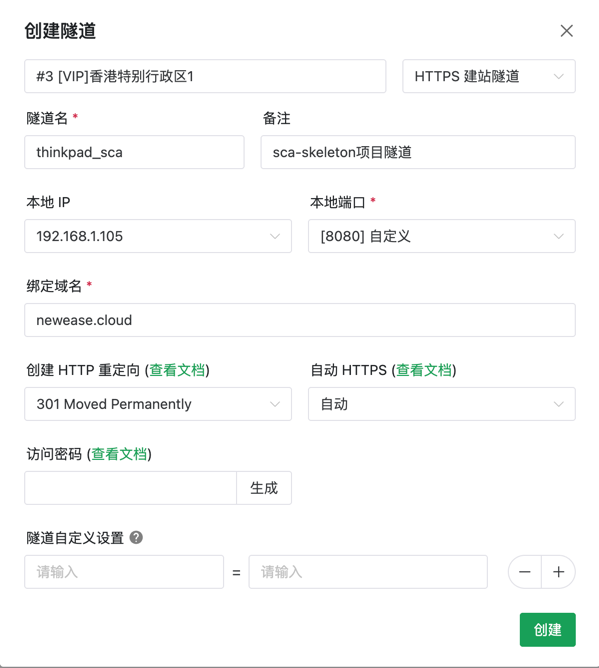
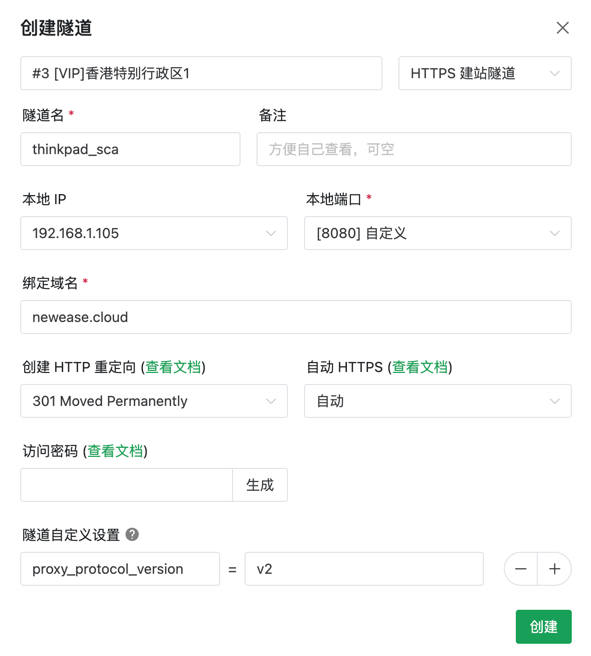
提交修改

diff --git a/deploy/SakuraFrp/安装步骤.md b/deploy/SakuraFrp/安装步骤.md
@@ -163,3 +163,72 @@ journalctl -u frpc@v7bx44tsklorvz141rmou651sd82csuu:28471369 -f
 # 前台调试（先停服务）
 frpc -f v7bx44tsklorvz141rmou651sd82csuu:28471369
 ```
+
+## 六、获取访问者真实 IP（Proxy Protocol v2）
+
+> **必须配置，否则登录日志的 IP 全是 Docker 网桥网关 `172.18.0.1`、位置显示"内网IP"。**
+
+### 6.1 为什么会变成 172.18.0.1
+
+流量路径：`浏览器 → SakuraFrp 节点(TLS 终结) → frpc(宿主机) → Docker 端口映射(8080:8080) → docker-proxy(SNAT) → Nginx 容器 → 网关 → 业务服务`
+
+- 本隧道是 **HTTPS 隧道**，frpc 到本地 Nginx 之间是纯 TCP 连接。SakuraFrp 的 `X-Forwarded-For` 头方案**仅适用于 HTTP 隧道**，HTTPS 隧道不会通过 HTTP 头传真实 IP。
+- frpc 在宿主机上，连接到 Nginx 容器要经过 Docker 端口映射的 `docker-proxy`，它做了 **SNAT**：把源 IP 改写为 Docker 网桥网关 `172.18.0.1`，而不是真实客户端 IP。
+- 于是 Nginx 的 `$remote_addr` 全是 `172.18.0.1`，无论你用 5G 流量还是内网访问都一样（frpc 是公网连接的终点，它向本地 Nginx 重新发起本地连接，TCP 源 IP 永远是本机地址）。Nginx 再把它当作真实 IP 透传给网关 → 认证服务，最终登录日志记录的 IP 就是 `172.18.0.1`，ip2region 判定为内网 → 位置"内网IP"。
+
+验证根因：
+
+```bash
+docker exec nginx tail -20 /var/log/nginx/sca-skeleton.access.log
+# access.log 第一个字段（$remote_addr）当前一定是 172.18.0.1
+```
+
+### 6.2 解决方案：Proxy Protocol v2
+
+参考 [SakuraFrp 官方文档 · 获取访问者的真实 IP](https://doc.natfrp.com/bestpractice/realip.html)。Proxy Protocol 适用于 TCP/UDP/HTTP/HTTPS 隧道，在 TCP 握手后发送一个协议头携带真实客户端 IP。docker-proxy 是透明 TCP 字节转发，PROXY Protocol 头会原样透传进 Nginx 容器。
+
+#### 第 1 步：frpc 隧道开启 Proxy Protocol
+
+在 [SakuraFrp 管理面板](https://www.natfrp.com/user/) 编辑隧道，开启「高级用户模式」，在**隧道自定义设置**中添加：
+
+```
+proxy_protocol_version = v2
+```
+
+> 保存后重启隧道：`systemctl restart frpc@v7bx44tsklorvz141rmou651sd82csuu:28471369`
+
+#### 第 2 步：Nginx 已就绪（本仓库已配置）
+
+- `conf/nginx.conf`：http 块已加 `set_real_ip_from` + `real_ip_header proxy_protocol`，信任本机回环与 Docker 私有网段，realip 模块据此把 `$remote_addr` 覆盖为真实客户端 IP。
+- `conf.d/sca-skeleton-prod.conf`（及 `sca-skeleton.conf`）：`listen 8080` 已加 `proxy_protocol`。
+
+> 前提：Nginx 镜像须含 `http_realip_module`（官方 `nginx:stable` 默认已编译）。验证：
+> ```bash
+> docker exec nginx nginx -V 2>&1 | grep -o 'http_realip_module'
+> ```
+> 若无输出，需更换为官方 nginx 镜像或自编译带该模块的镜像。
+
+#### 第 3 步：重新加载 Nginx
+
+```bash
+# 先校验语法（必须 OK 才能 reload）
+docker exec nginx nginx -t
+docker exec nginx nginx -s reload
+```
+
+#### 第 4 步：验证
+
+用 5G 流量（非本机/非局域网）访问 `https://newease.cloud/admin` 登录，查看登录日志：
+
+```bash
+docker exec nginx tail -f /var/log/nginx/sca-skeleton.access.log
+```
+
+- access.log 的第一个字段（`$remote_addr`）应为真实公网 IP，不再是 `172.18.0.1`。
+- 后台「登录日志」页的 IP 应为真实公网 IP，位置显示省份/城市而非"内网IP"。
+
+### 6.3 注意事项
+
+- **frpc 与 Nginx 必须同时开启**，否则隧道不可用。只改了一边会导致 `https://newease.cloud` 打不开（Nginx 收到的不是 PROXY Protocol 头会直接断开连接）。
+- 启用 `proxy_protocol` 后，**浏览器直连 `192.168.1.105:8080` 会失败**（该端口强制要求 PROXY Protocol 握手）。外网经 SakuraFrp 隧道访问不受影响。需要本地/内网直连 Nginx，请使用 SakuraFrp 的[「内网访问」功能](https://doc.natfrp.com/frpc/manual.html#feature-local-access)。
+- 部署到服务器的站点配置必须是带 `proxy_protocol` 的版本（`sca-skeleton-prod.conf` 或 `sca-skeleton.conf`），不要混用未修改的配置。
